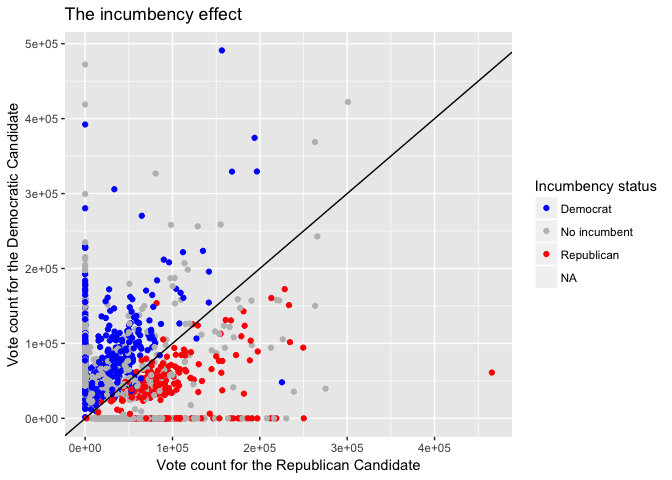
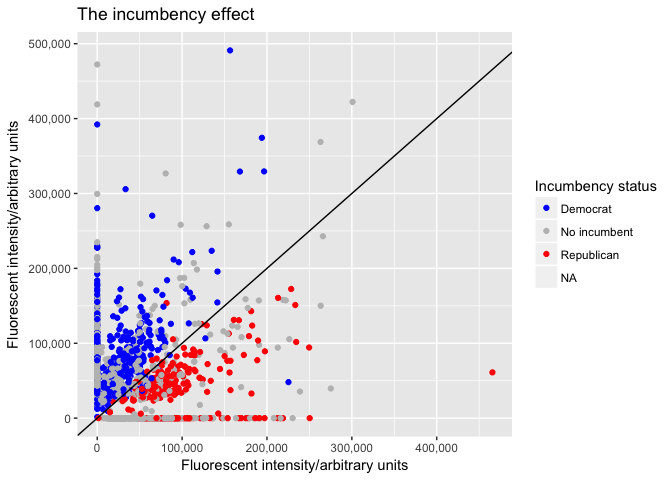
improved the plot

diff --git a/FinalProject/TheWork/FinalProject.md b/FinalProject/TheWork/FinalProject.md
@@ -196,7 +196,8 @@ Results <- Results %>%
   mutate(perc_prez_Dem = Prez_Dem/(Prez_Dem + Prez_Repub),
          perc_sen_Dem = US_Sen_Dem/(US_Sen_Dem + US_Sen_Repub),
          perc_sen2_Dem = US_Sen2_Dem/(US_Sen2_Dem + US_Sen2_Repub),
-         perc_gub_Dem = Gub_Dem/(Gub_Dem + Gub_Repub))
+         perc_gub_Dem = Gub_Dem/(Gub_Dem + Gub_Repub),
+         Approve = Approve/100)
 ```
 
 ### Fully clean dataset
@@ -234,12 +235,12 @@ head(Results)
     ## 5 1296  0.02158751    0.02440763    0.03321739  0.01363407  0.02228786
     ## 6 1296  0.02158751    0.02440763    0.03321739  0.01363407  0.02228786
     ##   Approve incumb_party_name Leg_winner  perc_Dem perc_Repub perc_prez_Dem
-    ## 1      54              <NA>       <NA>        NA         NA            NA
-    ## 2      54              <NA>       <NA>        NA         NA            NA
-    ## 3      54      No incumbent  Democract 1.0000000  0.0000000            NA
-    ## 4      54      No incumbent Republican 0.0000000  1.0000000            NA
-    ## 5      54      No incumbent  Democract 1.0000000  0.0000000            NA
-    ## 6      54          Democrat  Democract 0.6997406  0.3002594            NA
+    ## 1    0.54              <NA>       <NA>        NA         NA            NA
+    ## 2    0.54              <NA>       <NA>        NA         NA            NA
+    ## 3    0.54      No incumbent  Democract 1.0000000  0.0000000            NA
+    ## 4    0.54      No incumbent Republican 0.0000000  1.0000000            NA
+    ## 5    0.54      No incumbent  Democract 1.0000000  0.0000000            NA
+    ## 6    0.54          Democrat  Democract 0.6997406  0.3002594            NA
     ##   perc_sen_Dem perc_sen2_Dem perc_gub_Dem
     ## 1    0.6039872            NA    0.5208187
     ## 2    0.6592416            NA    0.5506241
@@ -267,6 +268,10 @@ plot1 <- ggplot(Results, aes(y = Leg_Dem, x = Leg_Repub)) +
   geom_point(mapping = aes(col = incumb_party_name)) +
   scale_colour_manual(values = c("blue", "grey", "red")) +
   geom_abline(intercept = 0, slope = 1) +
+  scale_y_continuous(name = "Fluorescent intensity/arbitrary units",
+                     labels = comma) +
+  scale_x_continuous(name = "Fluorescent intensity/arbitrary units",
+                     labels = comma) +
   ylab("Vote count for the Democratic Candidate") +
   xlab("Vote count for the Republican Candidate") +
   labs(col = "Incumbency status") +
@@ -339,6 +344,15 @@ Create a Mixed Effects Model
 # variables, which include observations for each variable from the previous
 # election.
 
+Results <- Results %>%
+  mutate(perc_changeLag = lag(perc_change, 120),
+         ApproveLag = lag(Approve, 120),
+         incumbentpartyLag = lag(incumbentparty, 120),
+         perc_DemLag = lag(perc_Dem, 120),
+         perc_prez_DemLag = lag(perc_prez_Dem, 120),
+         perc_gub_DemLag = lag(perc_gub_Dem, 120),
+         perc_sen_DemLag = lag(perc_sen_Dem, 120))
+
 Resultsmodel <- Results %>%
   mutate(perc_changeLag = lag(perc_change, 120),
          ApproveLag = lag(Approve, 120),
@@ -389,58 +403,26 @@ Resultsmodel[c("perc_Dem",
                                            "perc_gub_Dem",
                                            "perc_prez_DemLag",
                                            "perc_gub_DemLag",
-                                           "perc_sen_DemLag")])] <- .5
+                                           "perc_sen_DemLag")])] <- .0
 Resultsmodel["Leg_winner"][is.na(Resultsmodel["Leg_winner"])] <- "No election"
+
+Resultsmodel <- Resultsmodel %>%
+  mutate(mid_penalty = prez_party*mid_penalty,
+         Approve = prez_party*Approve) %>%
+  mutate(chamdist = rep(1:120, times = 23))
 ```
 
 ``` r
-m1 <- lmer(perc_Dem ~ incumbentparty + (Approve|prez_party), Resultsmodel)
-
-m3 <- lmer(perc_Dem ~
-             perc_DemLag + incumbentpartyLag +
-             (1|year/District) +
-             incumbentparty + (1 + incumbentparty|year),
-             Resultsmodel)
-AIC(m3)
-```
-
-    ## [1] -33.62053
-
-``` r
+m1 <- lmer(formula = perc_Dem ~ 
+             perc_DemLag +
+             incumbentparty +
+             perc_change +
+             (1|chamdist),
+           data = Resultsmodel)
 AIC(m1)
 ```
 
-    ## [1] 282.4906
-
-``` r
-# Added in a random intercept term which crosses percent votes for a senator and presidential approval rating 
-m4 <- lmer(perc_Dem ~
-             perc_DemLag + incumbentpartyLag +
-             (1|year/District) +
-             incumbentparty + 
-             (1 + incumbentparty|year) +
-             (1|perc_sen_Dem/Approve),
-             Resultsmodel)
-AIC(m4)
-```
-
-    ## [1] 64.86942
-
-``` r
-m5 <- lmer(perc_Dem ~
-             perc_DemLag + incumbentpartyLag +
-             (1|year/District) +
-             incumbentparty + 
-             (1 + incumbentparty|year) +
-             (1|perc_sen_Dem/Approve) +
-             perc_change +
-             (1|perc_prez_Dem) + 
-             (1|perc_gub_Dem),
-             Resultsmodel)
-AIC(m5)
-```
-
-    ## [1] 67.16768
+    ## [1] 989.3983
 
 ``` r
 # Added perc_changeLag as fixed effect, and changed three offices covariates
@@ -448,75 +430,32 @@ AIC(m5)
 # last election's results to predict the next one.
 
 m6 <- lmer(perc_Dem ~
-             perc_DemLag + incumbentpartyLag + mid_penalty +
-             (1|year/District) +
-             incumbentparty + 
-             (1 + incumbentparty|year) +
-             perc_change +
-             perc_changeLag +
-             (1|perc_sen_DemLag) +
-             (1|perc_prez_DemLag) +
-             (1|perc_gub_DemLag),
-             Resultsmodel)
-AIC(m6)
+             perc_DemLag + (1 + perc_DemLag|chamdist) +
+             perc_prez_DemLag +
+             perc_gub_DemLag +
+             perc_sen_DemLag +
+             incumbentpartyLag +
+             incumbentparty + (1 + incumbentparty|year) +
+             perc_change + 
+             Approve + (1 + Approve|year) +
+             mid_penalty,
+           data = Resultsmodel)
+
+m7 <- lmer(perc_Dem ~
+             (1 + perc_DemLag||chamdist) +
+             perc_prez_DemLag +
+             incumbentpartyLag +
+             incumbentparty + (1 + incumbentparty|year) +
+             perc_change + 
+             (1 + Approve|year),
+           data = Resultsmodel) 
 ```
-
-    ## [1] 77.24173
-
-``` r
-summary(m6)
-```
-
-    ## Linear mixed model fit by REML ['lmerMod']
-    ## Formula: perc_Dem ~ perc_DemLag + incumbentpartyLag + mid_penalty + (1 |  
-    ##     year/District) + incumbentparty + (1 + incumbentparty | year) +  
-    ##     perc_change + perc_changeLag + (1 | perc_sen_DemLag) + (1 |  
-    ##     perc_prez_DemLag) + (1 | perc_gub_DemLag)
-    ##    Data: Resultsmodel
-    ## 
-    ## REML criterion at convergence: 45.2
-    ## 
-    ## Scaled residuals: 
-    ##      Min       1Q   Median       3Q      Max 
-    ## -2.33102 -0.24875 -0.01204  0.43579  2.20635 
-    ## 
-    ## Random effects:
-    ##  Groups           Name           Variance  Std.Dev.  Corr 
-    ##  District.year    (Intercept)    7.237e-04 2.690e-02      
-    ##  perc_sen_DemLag  (Intercept)    0.000e+00 0.000e+00      
-    ##  perc_gub_DemLag  (Intercept)    6.889e-03 8.300e-02      
-    ##  perc_prez_DemLag (Intercept)    1.188e-16 1.090e-08      
-    ##  year             (Intercept)    1.385e-04 1.177e-02      
-    ##                   incumbentparty 1.378e-03 3.712e-02 -1.00
-    ##  year.1           (Intercept)    0.000e+00 0.000e+00      
-    ##  Residual                        5.464e-02 2.338e-01      
-    ## Number of obs: 1440, groups:  
-    ## District:year, 1233; perc_sen_DemLag, 954; perc_gub_DemLag, 754; perc_prez_DemLag, 688; year, 21
-    ## 
-    ## Fixed effects:
-    ##                    Estimate Std. Error t value
-    ## (Intercept)        0.544117   0.024611  22.109
-    ## perc_DemLag        0.014095   0.019052   0.740
-    ## incumbentpartyLag  0.011803   0.011322   1.043
-    ## mid_penalty        0.009517   0.010218   0.931
-    ## incumbentparty     0.297934   0.014805  20.123
-    ## perc_change       -1.574491   1.284341  -1.226
-    ## perc_changeLag    -1.154481   1.407573  -0.820
-    ## 
-    ## Correlation of Fixed Effects:
-    ##             (Intr) prc_DL incmbL md_pnl incmbn prc_ch
-    ## perc_DemLag -0.435                                   
-    ## incmbntprtL  0.237 -0.501                            
-    ## mid_penalty  0.016 -0.017  0.003                     
-    ## incmbntprty -0.056 -0.013 -0.203  0.035              
-    ## perc_change -0.371  0.015  0.001  0.034 -0.005       
-    ## perc_chngLg -0.381  0.038 -0.083 -0.049 -0.009 -0.595
 
 ### Testing the model
 
 ``` r
 # Creating two datasets; one to build the model, and one to test the model.
-set.seed(1)
+set.seed(23)
 train_indeces <- sample(1:nrow(Resultsmodel), size = 1380, replace = FALSE)
 default_train <- slice(Resultsmodel, train_indeces)
 default_test <- slice(Resultsmodel, -train_indeces)
@@ -537,4 +476,43 @@ mcr6
 ```
 
     ##             n
-    ## 1 0.007246377
+    ## 1 0.001449275
+
+New Model
+---------
+
+``` r
+# Still need chamdist to indefity unique districts
+
+Results1 <- Results %>%
+  mutate(mid_penalty = prez_party*mid_penalty,
+         Approve = prez_party*Approve) %>%
+  mutate(chamdist = rep(1:120, times = 23))
+```
+
+``` r
+Calc_err <- function(m1, initial_lag = 12){
+  n <- length(unique(Results1$year))
+  n_predict <- n - initial_lag -1
+  RSS <- rep(NA, n = n_predict)
+  for(i in 1:n_predict){
+    train <- Results1 %>%
+      filter(year < min(Results1$year) + 2*(initial_lag + i) - 1)
+    test <- Results1 %>%
+      filter(year == min(Results1$year) + 2*(initial_lag + i))
+    m1 <- lmer(formula = perc_Dem ~
+                 perc_DemLag +
+                 incumbentparty +
+                 perc_change +
+                 (1|chamdist),
+               data = train)
+    y1 <- predict(m1 , data = test)
+    y2 <- simulate(m1 , data = test)
+    RSS[i] <- sum((test$perc_Dem - y2$perc_Dem)^2)
+  }
+  mean(RSS)}
+
+Calc_err(m1)
+```
+
+    ## [1] 0
